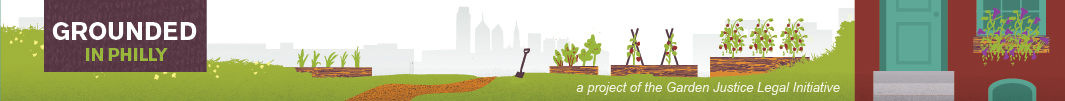
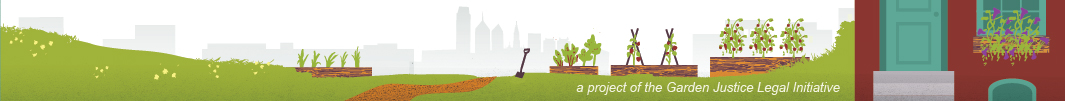
Header more responsive

Changed region(s): [[0.031, 0.0, 0.2169, 0.7129]]

diff --git a/vacant_to_vibrant/static/css/base.css b/vacant_to_vibrant/static/css/base.css
@@ -213,10 +213,10 @@ header {
 #mainmenu {
     float: left;
     height: 0;
-    left: 250px;
-    max-width: 400px;
+    left: 195px;
+    max-width: 700px;
     position: relative;
-    top: -90px;
+    top: -100px;
 }
 
 #mainmenu li {
@@ -253,13 +253,32 @@ header {
     color: #5F424D;
 }
 
-#logo {
+#page-header {
     background: url(/static/img/header.jpg);
     height: 101px;
 }
 
+#logo {
+    background: url(/static/img/logo.jpg);
+    display: block;
+    height: 72px;
+    left: 25px;
+    position: relative;
+    width: 162px;
+}
+
 #logo h1 {
     display: none;
+}
+
+@media (max-width: 400px) {
+
+    #logo {
+        left: 0;
+        margin-left: auto;
+        margin-right: auto;
+    }
+
 }
 
 @media (min-width: 768px) {

diff --git a/vacant_to_vibrant/templates/base.html b/vacant_to_vibrant/templates/base.html
@@ -17,10 +17,10 @@
 
             <header>
 
-                <div id="logo">
-                    <h1>
-                        <a href="/">{% trans "Grounded in Philly" %}</a>
-                    </h1>
+                <div id="page-header">
+                    <a id="logo" href="/">
+                        <h1>{% trans "Grounded in Philly" %}</h1>
+                    </a>
                 </div>
 
                 <nav id="mainmenu" class="clearfix">
